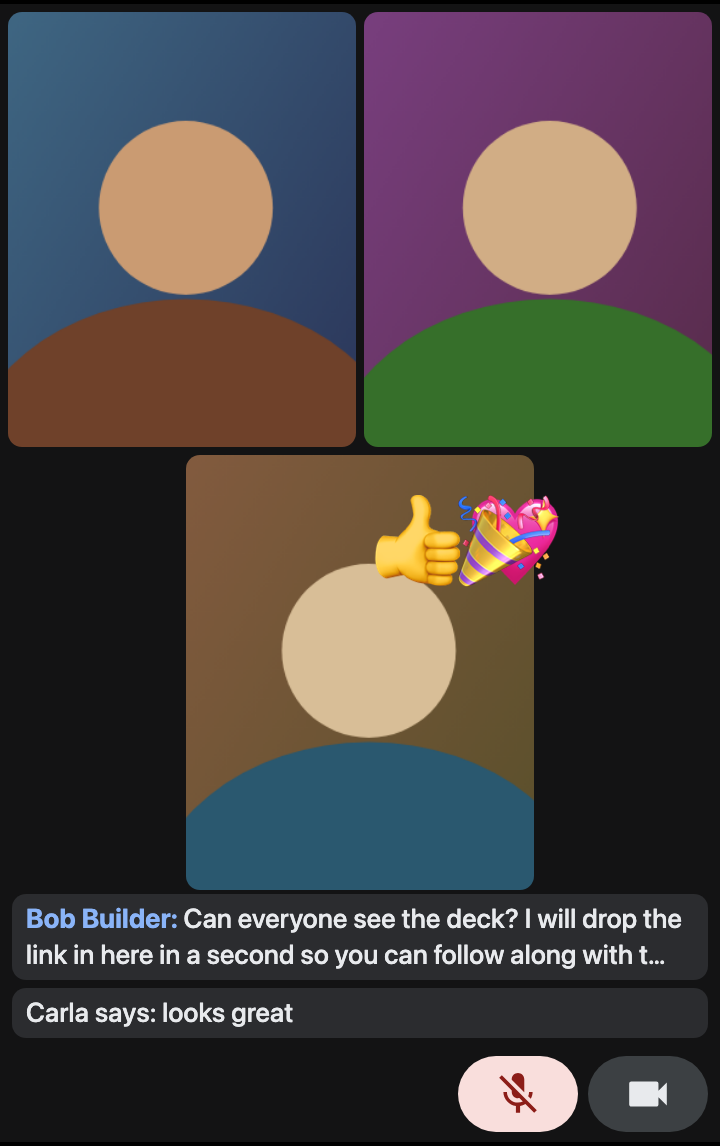
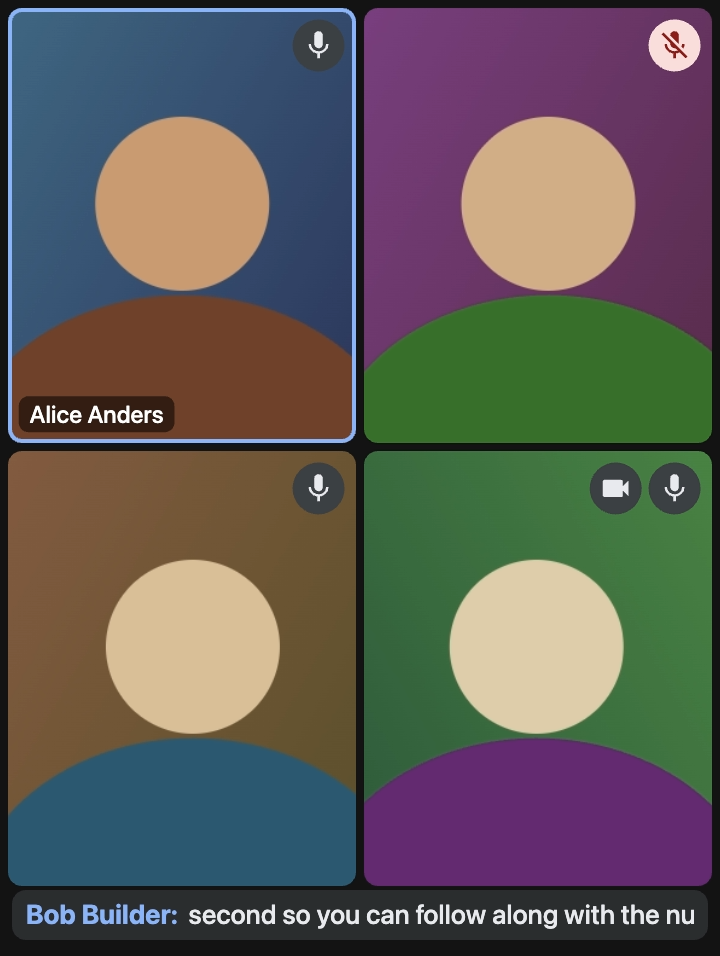
Refresh README screenshots

diff --git a/README.md b/README.md
@@ -6,7 +6,7 @@ state in an always-on-top window, and opens when you leave the tab.
 
 | Presenting | Not presenting |
 | --- | --- |
-| <img src="screenshots/presenting.png" width="420" alt="PiP while someone presents: slide on top, chat, participant tiles and mic/camera indicators underneath"> | <img src="screenshots/grid.png" width="240" alt="PiP without a presentation: participant grid, chat and mic/camera indicators"> |
+| <img src="screenshots/presenting.png" width="420" alt="PiP while someone presents: slide on top, a chat row, then participant tiles with mic badges, the speaker named and outlined, and your own tile on the right"> | <img src="screenshots/grid.png" width="240" alt="PiP without a presentation: a grid of equal tiles with mic badges, the speaker named and outlined, your own tile last, and a chat row"> |
 
 Screenshots are from the test page, not a real call.
 
